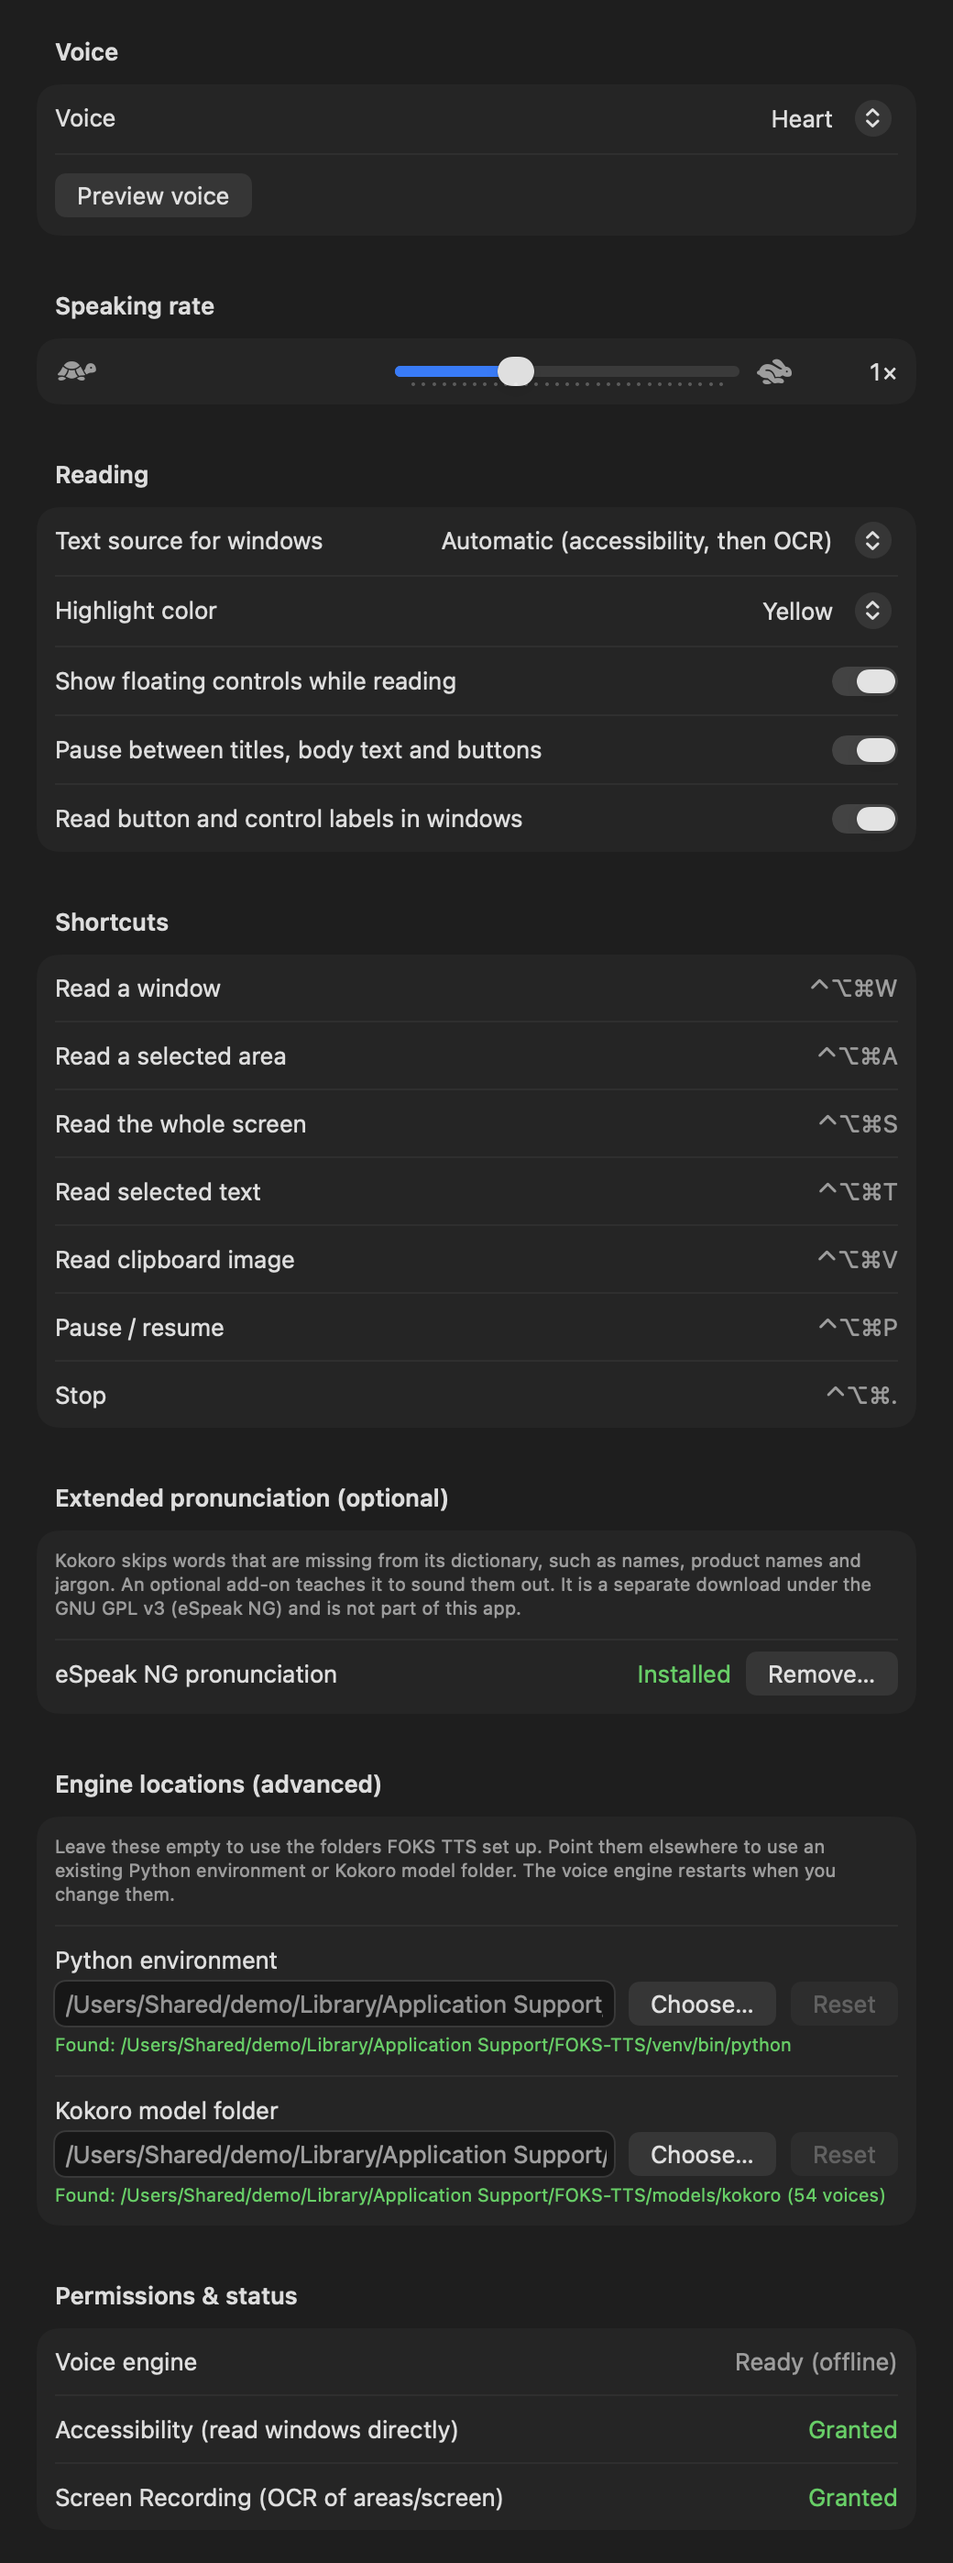
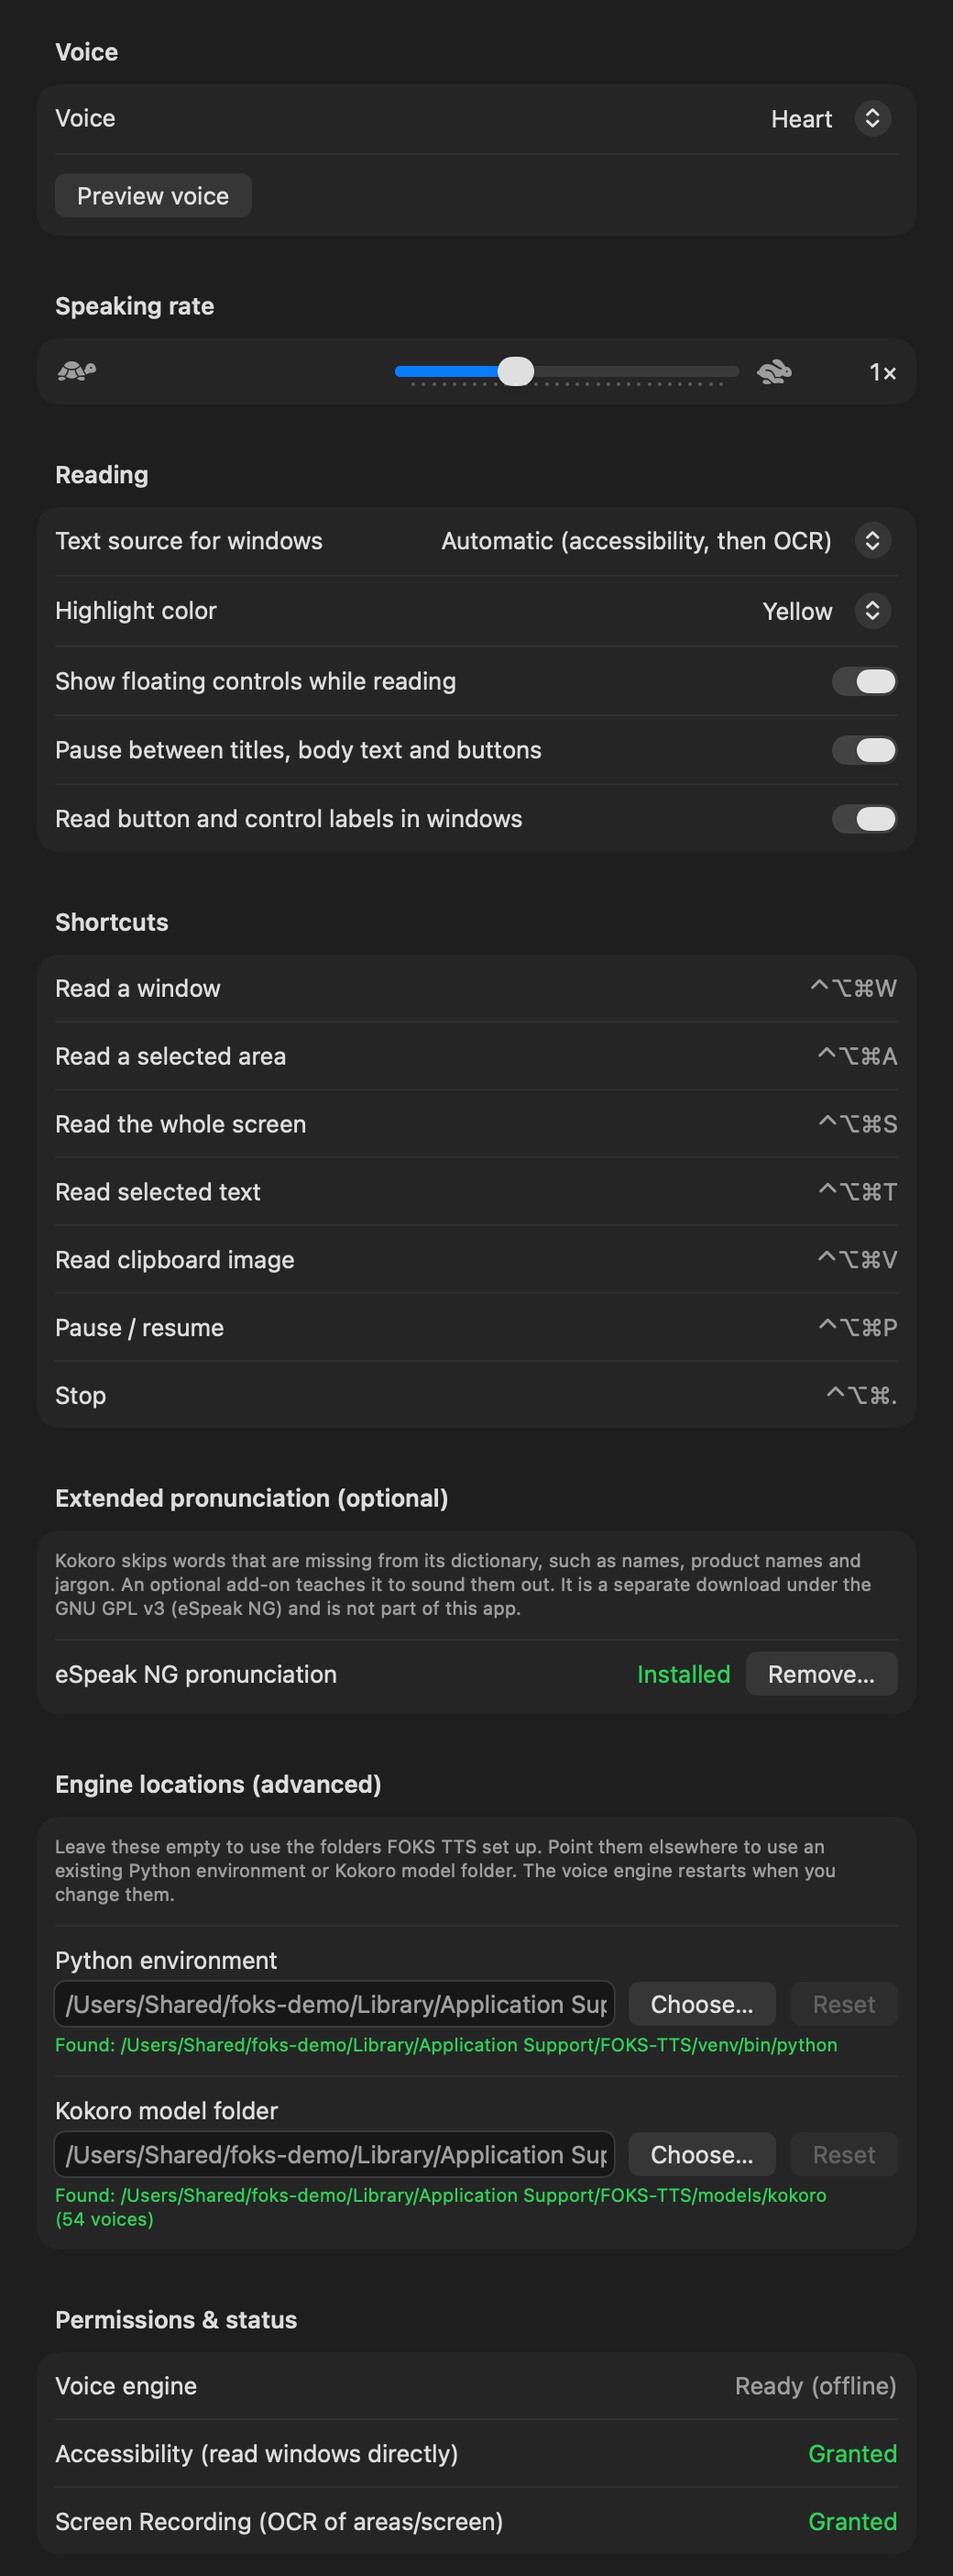
Add the README screenshot harness (make screenshots)
The Settings and menu bar images in docs/ are rendered from the real SwiftUI views over a demo home, so no
desktop content or real username appears. The recipe used to live only in CLAUDE.md; it is now
tools/render_screenshots.sh with tools/screenshots/main.swift, run by make screenshots. SettingsView takes a
height and StatusModel can be frozen so the renders show fixed values. The images are regenerated.

diff --git a/tools/screenshots/main.swift b/tools/screenshots/main.swift
@@ -1,0 +1,99 @@
+// Renders the README images from the real SwiftUI views, so they never contain a screen capture:
+//   settings-light.png, settings-dark.png   the Settings window (fixed demo values, whole dialog)
+//   menubar-icon.png                        the menu bar icon on a light and a dark menu bar
+// Built and run by tools/render_screenshots.sh (which also sets up the demo home so no real path appears).
+// usage: render <output-dir> <path to app/Icon/MenuBarIcon@2x.png>
+import AppKit
+import SwiftUI
+
+let args = CommandLine.arguments
+guard args.count == 3 else { FileHandle.standardError.write(Data("usage: render <out-dir> <MenuBarIcon@2x.png>\n".utf8)); exit(2) }
+let outDir = URL(fileURLWithPath: args[1])
+let iconURL = URL(fileURLWithPath: args[2])
+let app = NSApplication.shared
+app.setActivationPolicy(.accessory)
+
+func writePNG(_ rep: NSBitmapImageRep, _ name: String) {
+    let data = rep.representation(using: .png, properties: [:])!
+    try! data.write(to: outDir.appendingPathComponent(name))
+    print("wrote \(name): \(rep.pixelsWide)x\(rep.pixelsHigh)")
+}
+
+/// Drop the empty window background below the last row of content, keeping a small margin.
+func cropBottom(_ rep: NSBitmapImageRep, marginPx: Int = 24) -> NSBitmapImageRep {
+    let w = rep.pixelsWide, h = rep.pixelsHigh
+    func differs(_ y: Int) -> Bool {
+        let ref = rep.colorAt(x: 0, y: h - 1)!
+        for x in stride(from: 0, to: w, by: 2) {
+            let c = rep.colorAt(x: x, y: y)!
+            if abs(c.redComponent - ref.redComponent) + abs(c.greenComponent - ref.greenComponent) + abs(c.blueComponent - ref.blueComponent) > 0.02 { return true }
+        }
+        return false
+    }
+    var last = h - 1
+    while last > 0, !differs(last) { last -= 1 }
+    let newH = min(h, last + 1 + marginPx)
+    let cg = rep.cgImage!.cropping(to: CGRect(x: 0, y: 0, width: w, height: newH))!
+    return NSBitmapImageRep(cgImage: cg)
+}
+
+func renderSettings(dark: Bool) -> NSBitmapImageRep {
+    app.appearance = NSAppearance(named: dark ? .darkAqua : .aqua)
+    let status = StatusModel.shared
+    status.frozen = true
+    status.ready = true; status.axOK = true; status.scOK = true; status.espeak = true
+    let root = SettingsView(onPreview: {}, onInstallAddon: {}, onRemoveAddon: {}, height: 1500)
+        .environment(\.controlActiveState, .key)
+    let vc = NSHostingController(rootView: root)
+    let window = NSWindow(contentViewController: vc)
+    window.setContentSize(NSSize(width: 520, height: 1500))
+    window.appearance = app.appearance
+    window.layoutIfNeeded()
+    RunLoop.current.run(until: Date().addingTimeInterval(0.6))     // let SwiftUI lay out and the controls settle
+    let view = vc.view
+    view.frame = NSRect(x: 0, y: 0, width: 520, height: 1500)
+    view.layoutSubtreeIfNeeded()
+    let rep = NSBitmapImageRep(bitmapDataPlanes: nil, pixelsWide: 1040, pixelsHigh: 3000, bitsPerSample: 8, samplesPerPixel: 4,
+                               hasAlpha: true, isPlanar: false, colorSpaceName: .deviceRGB, bytesPerRow: 0, bitsPerPixel: 0)!
+    rep.size = view.bounds.size                                      // 2x: the PNG is 1040 px wide
+    view.cacheDisplay(in: view.bounds, to: rep)
+    return cropBottom(rep)
+}
+
+func renderMenuBar() -> NSBitmapImageRep {
+    let w = 360, h = 120, strip = 60
+    let rep = NSBitmapImageRep(bitmapDataPlanes: nil, pixelsWide: w, pixelsHigh: h, bitsPerSample: 8, samplesPerPixel: 4,
+                               hasAlpha: true, isPlanar: false, colorSpaceName: .deviceRGB, bytesPerRow: 0, bitsPerPixel: 0)!
+    let icon = NSImage(contentsOf: iconURL)!
+    NSGraphicsContext.saveGraphicsState()
+    NSGraphicsContext.current = NSGraphicsContext(bitmapImageRep: rep)
+    for (i, dark) in [false, true].enumerated() {
+        let y = CGFloat(h - (i + 1) * strip)                         // light strip on top, dark below
+        let bg = dark ? NSColor(red: 0.15, green: 0.15, blue: 0.165, alpha: 1) : NSColor(red: 0.92, green: 0.915, blue: 0.94, alpha: 1)
+        let pill = dark ? NSColor(white: 0.36, alpha: 1) : NSColor(white: 0.79, alpha: 1)
+        bg.setFill(); NSRect(x: 0, y: y, width: CGFloat(w), height: CGFloat(strip)).fill()
+        pill.setFill()
+        for x in [40, 96, 150, 214] {
+            let wd: CGFloat = x == 214 ? 35 : 35
+            NSBezierPath(roundedRect: NSRect(x: CGFloat(x), y: y + 21, width: wd, height: 18), xRadius: 9, yRadius: 9).fill()
+        }
+        let r = NSRect(x: 284, y: y + 12, width: 36, height: 36)
+        if dark {                                                    // a template image takes the menu bar's text color
+            let tinted = NSImage(size: r.size)
+            tinted.lockFocus()
+            icon.draw(in: NSRect(origin: .zero, size: r.size))
+            NSColor.white.set()
+            NSRect(origin: .zero, size: r.size).fill(using: .sourceIn)
+            tinted.unlockFocus()
+            tinted.draw(in: r)
+        } else {
+            icon.draw(in: r)
+        }
+    }
+    NSGraphicsContext.restoreGraphicsState()
+    return rep
+}
+
+writePNG(renderSettings(dark: false), "settings-light.png")
+writePNG(renderSettings(dark: true), "settings-dark.png")
+writePNG(renderMenuBar(), "menubar-icon.png")

diff --git a/app/Sources/UI.swift b/app/Sources/UI.swift
@@ -62,8 +62,11 @@ final class StatusModel: ObservableObject {
     @Published var espeak = TTSWorker.shared.hasEspeak
     @Published var busy = false
     @Published var error: String?
+    /// Set by tools/screenshots so the README renders can show fixed values (refresh would read the real ones).
+    var frozen = false
 
     func refresh() {
+        guard !frozen else { return }
         axOK = AXText.trusted(prompt: false)
         scOK = CGPreflightScreenCaptureAccess()
         ready = TTSWorker.shared.isReady
@@ -110,6 +113,7 @@ struct SettingsView: View {
     var onPreview: () -> Void
     var onInstallAddon: () -> Void
     var onRemoveAddon: () -> Void
+    var height: CGFloat = 900      // taller in tools/screenshots so the whole dialog fits in one render
 
     var body: some View {
         Form {
@@ -190,7 +194,7 @@ struct SettingsView: View {
             }
         }
         .formStyle(.grouped)
-        .frame(width: 520, height: 900)
+        .frame(width: 520, height: height)
         .onAppear { status.refresh() }
         .onReceive(Timer.publish(every: 1.5, on: .main, in: .common).autoconnect()) { _ in status.refresh() }
     }

diff --git a/CLAUDE.md b/CLAUDE.md
@@ -79,7 +79,7 @@ with the locations in effect and whether each is a default or an override (plus 
 
 ## Commands
 
-`make` lists the developer tasks (typecheck, test, build, install, check, notices, audit, bump, release, clean); it is plain make with nothing
+`make` lists the developer tasks (typecheck, test, build, install, check, notices, screenshots, audit, bump, release, clean); it is plain make with nothing
 to install. The underlying commands:
 
 ```bash
@@ -151,15 +151,13 @@ The demo GIF is made from headless snapshot frames of `test_screenshot.png` asse
 14. `UV_PYTHON_PREFERENCE=only-managed` keeps uv from borrowing Homebrew's or the system Python.
 15. **Config for the app goes through Settings, never the environment.** A Finder or launchd launch has no shell
     variables. Environment variables are fine only for terminal tools such as `install.sh`.
-16. **README screenshots are renders, not captures, and are static.** Regenerate them when Settings changes. Recipe
-    (the harness is not in the repo): compile `app/Sources/*.swift` without `main.swift` plus a small `main.swift` that
-    hosts `SettingsView` in an `NSHostingController`, sets `StatusModel` to ready/granted, applies
-    `.environment(\.controlActiveState, .key)`, and writes `contentView.cacheDisplay` to a PNG (build a copy of
-    `UI.swift` with the frame height raised so the whole dialog fits; light and dark via `app.appearance`). Run it with
-    `CFFIXED_USER_HOME=/Users/Shared/demo` so no real username appears, over a demo home containing an executable
-    `venv/bin/python`, `models/kokoro/config.json` and 54 empty `voices/<name>.safetensors` files, then crop the empty
-    bottom with Pillow. Delete the demo home afterward. The menu bar image composites `MenuBarIcon@2x.png` on a light and
-    a dark strip.
+16. **README screenshots are renders, not captures, and are static.** Regenerate them with `make screenshots`
+    (`tools/render_screenshots.sh`) whenever Settings changes, then commit the three images in `docs/`. The harness
+    (`tools/screenshots/main.swift`) compiles the app sources without `main.swift`, hosts `SettingsView` in an
+    `NSHostingController` at 2x with fixed status values (`StatusModel.frozen`, `SettingsView.height`), crops the empty
+    bottom, and composites the menu bar icon on a light and a dark strip. The script runs it over a demo home
+    (`/Users/Shared/foks-demo`, deleted afterwards, with an executable `venv/bin/python`, `models/kokoro/config.json` and
+    one empty file per voice) via `CFFIXED_USER_HOME`, so no real username appears in the paths.
 17. **His interactive zsh aliases `ls` (ANSI colors) and `mkdir` (verbose).** `$(ls ...)` yields escape codes in
     names; use `find` or `command ls` in anything scripted.
 

diff --git a/README.md b/README.md
@@ -158,6 +158,7 @@ asks first.
 | `requirements/` | `core.lock` (69 hash-locked packages, no GPL), the optional GPL add-on lock, and `dev.lock` (test tools, not shipped) |
 | `brand/`, `app/Icon/` | the color palette (`palette.json`, the single source of truth) and the procedurally drawn icon |
 | `tools/gen_notices.py` | regenerates `THIRD_PARTY_NOTICES.md` from the installed packages |
+| `tools/render_screenshots.sh` | re-renders the screenshots in `docs/` from the real views (`make screenshots`) |
 
 ```bash
 cd app && ./build_app.sh                        # build "build/FOKS TTS.app"
